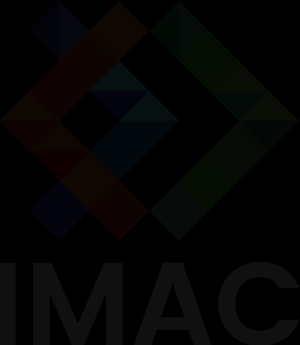
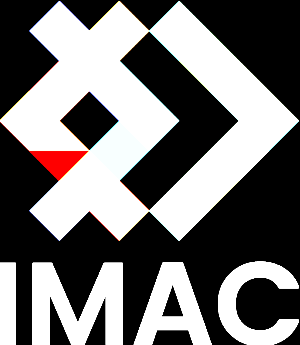
une meilleure matrice pour la convolution ?

diff --git a/src/main_lison.cpp b/src/main_lison.cpp
@@ -553,10 +553,9 @@ void main_lison()
     sil::Image logo {"images/logo.png"};
     sil::Image image {logo};
     std::vector<std::vector<float>> kernel {
-        {1.f, 1.f, 1.f, 1.f},
-        {1.f, 1.f, 1.f, 1.f},
-        {1.f, 1.f, 1.f, 1.f},
-        {1.f, 1.f, 1.f, 1.f}
+        {-1.f, -1.f, -1.f},
+        {-1.f, 8.f, -1.f},
+        {-1.f, -1.f, -1.f}
     };
     float Total{0};
     for (std::vector<float> line : kernel)
